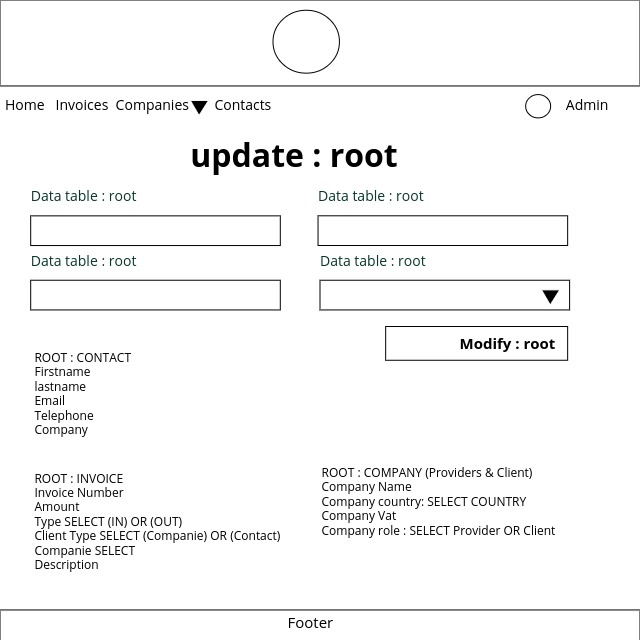
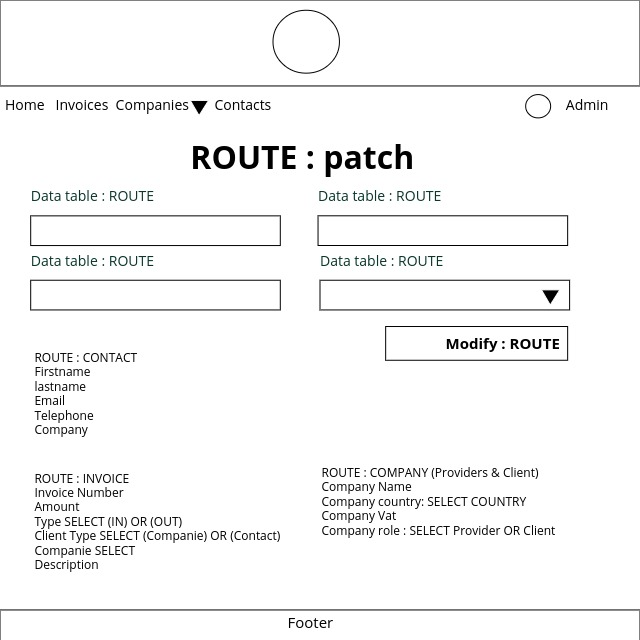
mod.Images et README.md

diff --git a/infos/README.md b/infos/README.md
@@ -1,0 +1,22 @@
+### Login Page
+infos/MockUp/Login.jpg
+### Admin Page
+infos/MockUp/AdminDashboard.jpg
+### Add Route Page
+infos/MockUp/add.jpg
+### company ID Page
+infos/MockUp/companyId.jpg
+### contactId Page
+infos/MockUp/contactId.jpg
+### Home Page
+infos/MockUp/home.jpg
+### list Route Page
+infos/MockUp/list.jpg
+### navBarMenu
+infos/MockUp/navBarMenu.jpg
+### patch Route Page
+infos/MockUp/patch.jpg
+### userId Page
+infos/MockUp/userId.jpg
+
+
